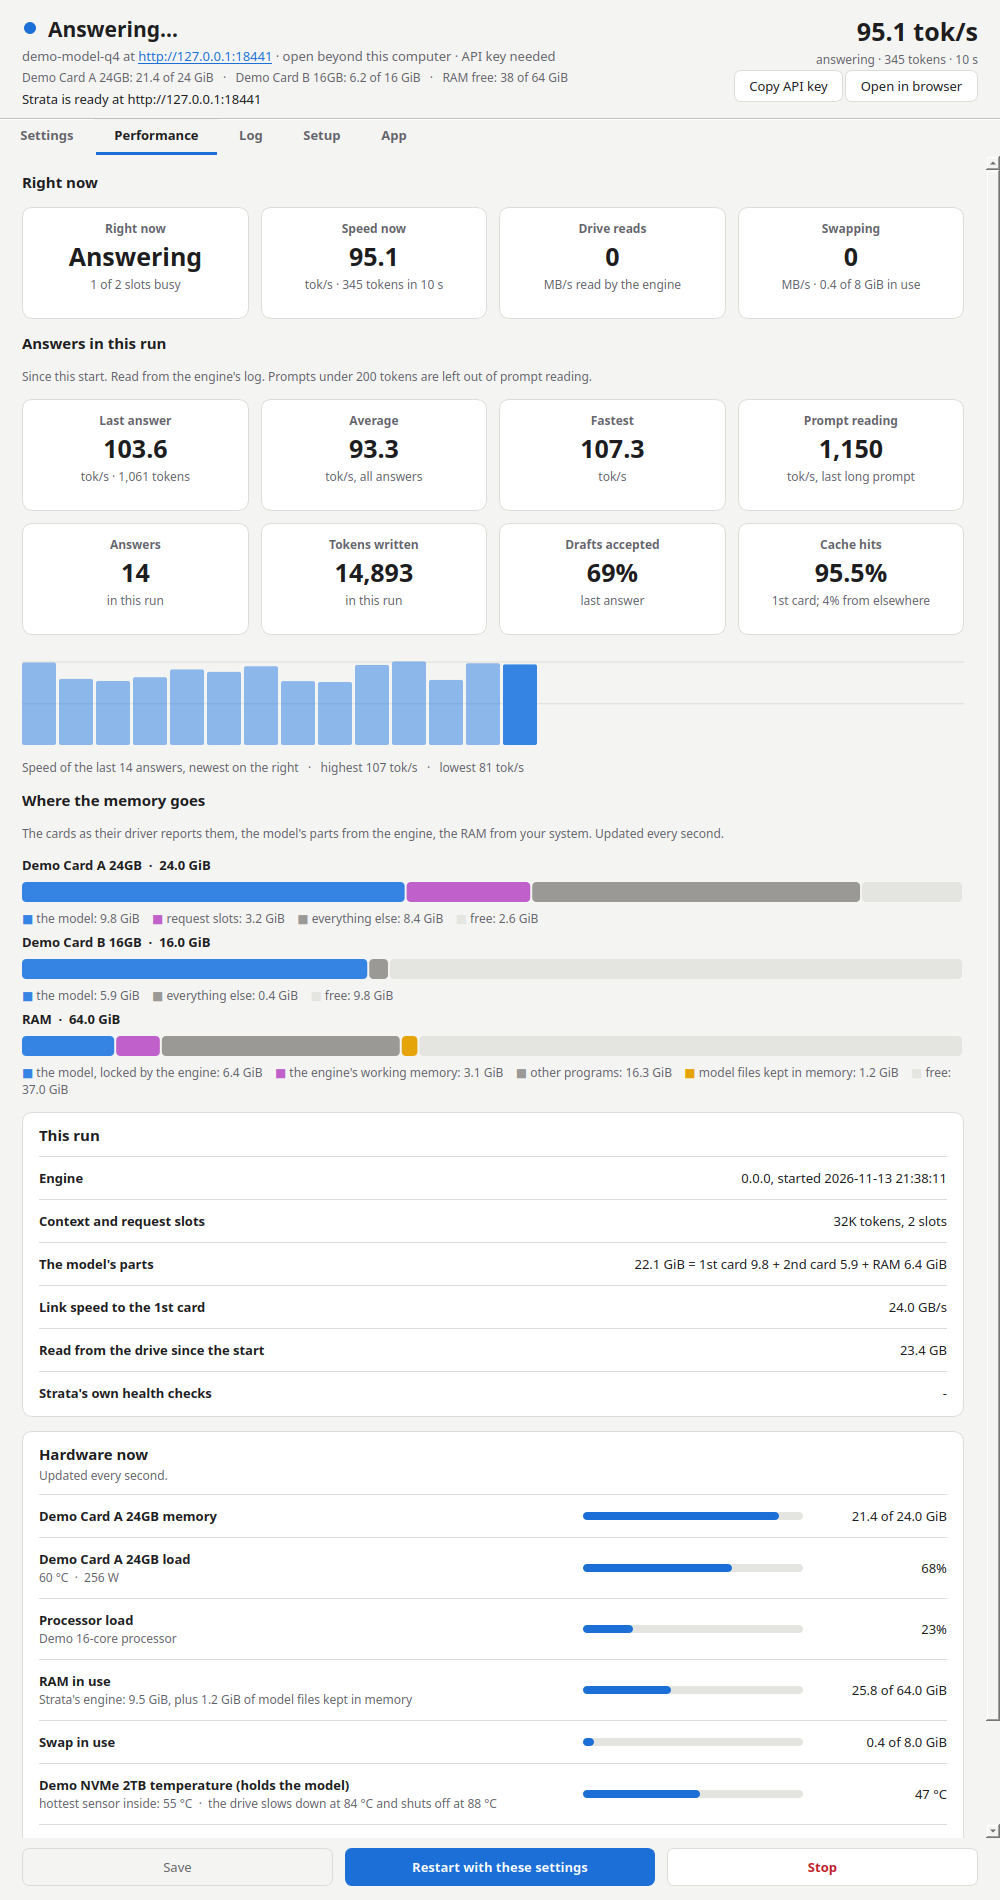
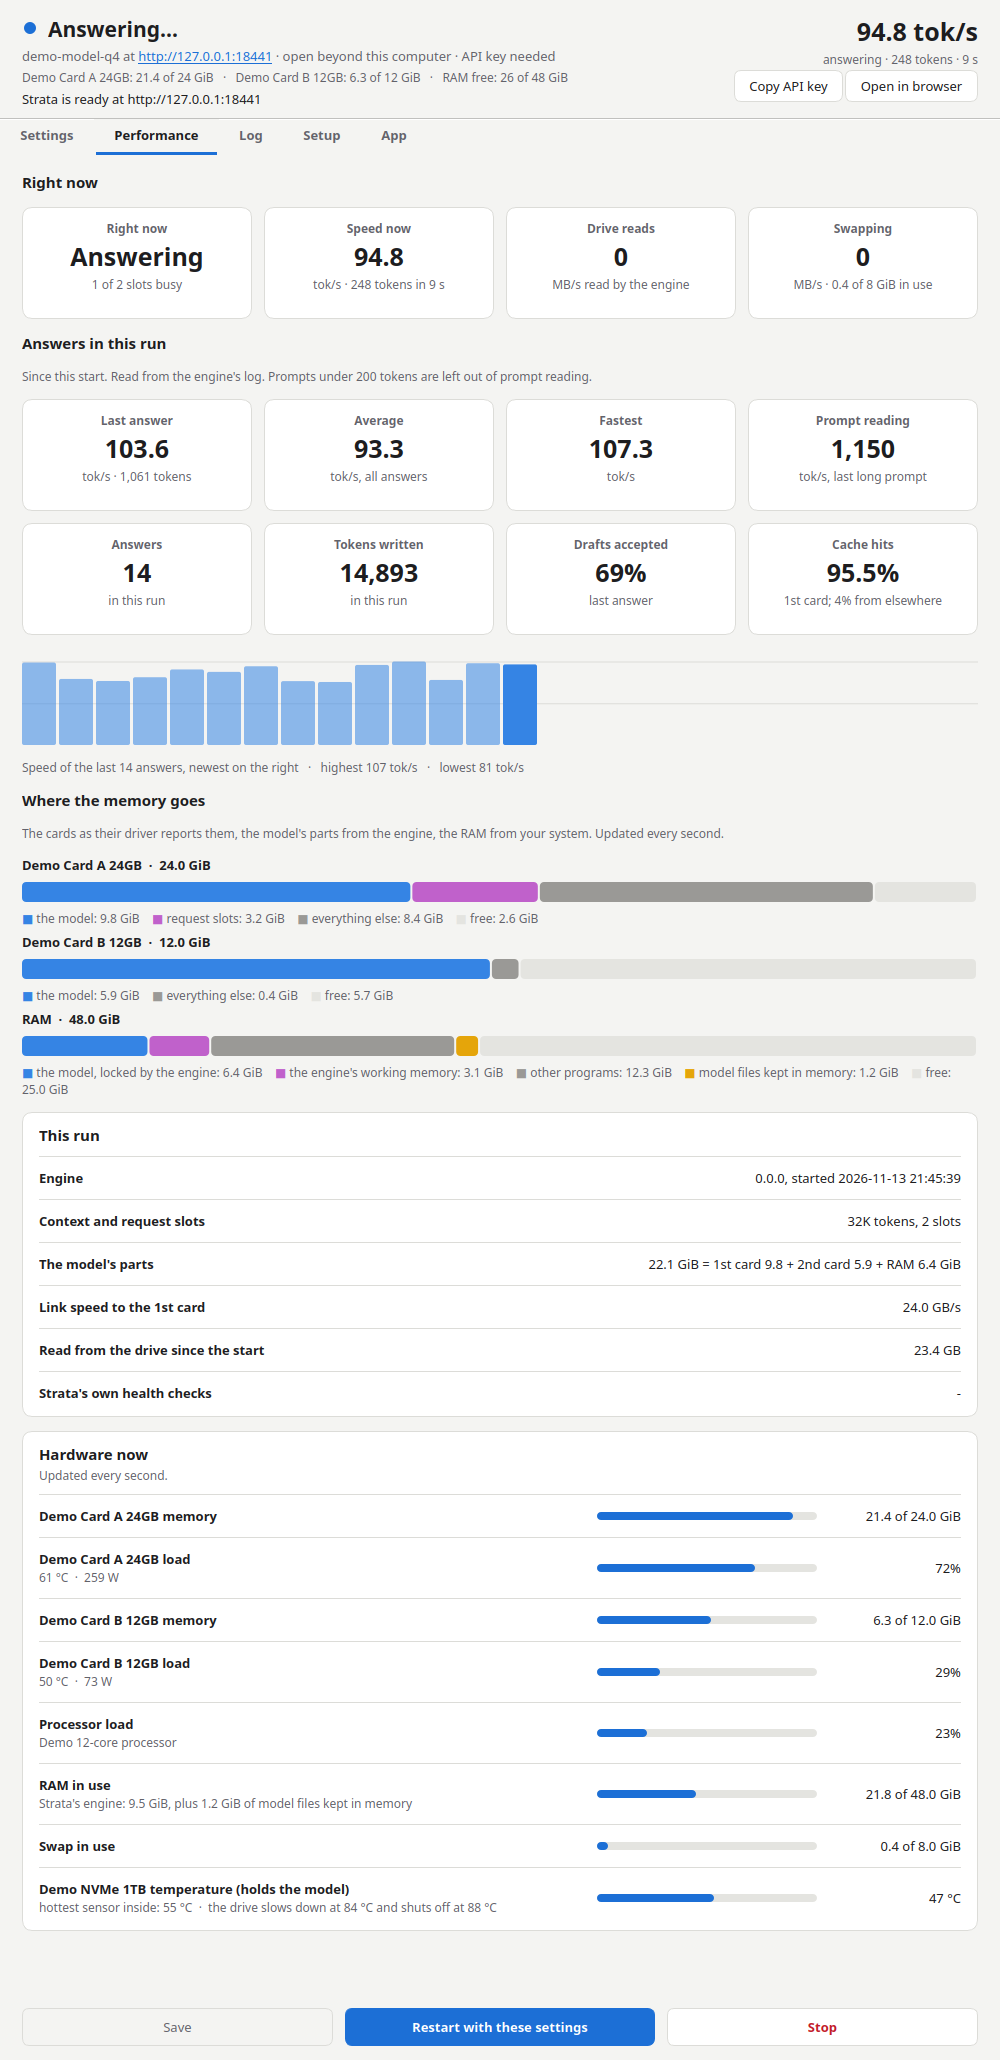
Fixes from hands-on testing on Windows: no false crash message after Stop, a first setup picks an installed model, hardware rows keep their order

diff --git a/src/strata_launcher/ui/window.py b/src/strata_launcher/ui/window.py
@@ -96,6 +96,7 @@ class MainWindow(QMainWindow):
         self.records: list[tuple[str, str]] = []
         self.running = False
         self.was_ready = False
+        self.stopped_at = 0.0
         self.live_logged = 0.0
         self.hot_said = 0.0
         self.shown_sub = None
@@ -340,6 +341,7 @@ class MainWindow(QMainWindow):
             self.run_rows[key] = value
         self.hw_card = Card("Hardware now", "Updated every second.")
         self.hw_rows: dict[str, Meter] = {}
+        self.hw_order: dict[str, tuple] = {}
 
         inner, _ = page(label("Right now", "heading"), now_box, label("Answers in this run", "heading"), self.perf_note, ans_box,
                         self.chart, self.chart_caption, label("Where the memory goes", "heading"), self.mem_note, mem_holder,
@@ -844,6 +846,9 @@ class MainWindow(QMainWindow):
         self.preset_combo.setEditText(preset)
         self.loading = False
         self.refresh_strata_note()
+        if info["models"] and not model and not preset and not self.files_edit.text() and self.kind_group.checkedId() == 0:
+            self.model_combo.setEditText(info["models"][0]["id"])      # a first setup: start from a model that is there
+            self.say(f"Strata has the model {info['models'][0]['id']} set up, so it is chosen. You can change it on the Setup tab.")
         if not info.get("version"):
             self.say("The chosen strata command did not answer like Strata. Check the Setup tab.", "warn")
 
@@ -1049,6 +1054,9 @@ class MainWindow(QMainWindow):
 
     def on_done(self, name: str, ok: bool, message: str):
         self.busy = None
+        if name == "Stopping…":
+            self.was_ready = False
+            self.stopped_at = time.time() + 1.5
         if message:
             self.say(message, "launcher" if ok else "error")
         self.show_status()
@@ -1193,7 +1201,9 @@ class MainWindow(QMainWindow):
         if self.was_ready and not now_running and not self.busy:
             self.was_ready = False
             self.why_gone()
-        if state["kind"] in ("idle", "busy") and not self.busy:
+        # "Ready" is only noted from a reading taken after the last Stop finished: the reading from the second
+        # before would still show the server and make a wanted stop look like a crash.
+        if state["kind"] in ("idle", "busy") and not self.busy and s.get("at", 0) > self.stopped_at:
             self.was_ready = True
         self.running = now_running
         url, c = self.url(), self.colours
@@ -1352,31 +1362,43 @@ class MainWindow(QMainWindow):
                               + (f" The engine also keeps {files:.1f} GiB of the model files in memory (yellow). The system drops them when memory is short, "
                                  "and then they are read from the drive again." if files > 2 else ""))
 
-    def meter(self, key: str, title: str) -> Meter:
+    def meter(self, key: str, title: str, order: tuple = (9,)) -> Meter:
+        """The hardware row with this key. A new row is put in its place: cards first, then processor, RAM, swap, drives."""
         if key not in self.hw_rows:
             self.hw_rows[key] = Meter(title)
-            self.hw_card.add(self.hw_rows[key])
+            self.hw_order[key] = order
+            box = self.hw_card.box
+            for i in reversed(range(box.count())):           # take the rows out (the heading stays) and put them back in order
+                item = box.itemAt(i)
+                w = item.widget()
+                if w is not None and (isinstance(w, Meter) or w.objectName() == "line"):
+                    box.takeAt(i)
+                    if not isinstance(w, Meter):
+                        w.deleteLater()
+            self.hw_card.rows = 0
+            for k in sorted(self.hw_rows, key=lambda k: self.hw_order[k]):
+                self.hw_card.add(self.hw_rows[k])
         return self.hw_rows[key]
 
     def refresh_hardware(self, s: dict, gpus: list):
         for g in gpus:
             if g.get("used") is not None:
-                self.meter(f"gpu{g['index']}m", f"{g['name']} memory").set(g["used"] / g["total"], f"{g['used'] / 1024:.1f} of {g['total'] / 1024:.1f} GiB")
+                self.meter(f"gpu{g['index']}m", f"{g['name']} memory", (0, g["index"], 0)).set(g["used"] / g["total"], f"{g['used'] / 1024:.1f} of {g['total'] / 1024:.1f} GiB")
             extra = [f"{g['temp']:.0f} °C" if g.get("temp") is not None else "", f"{g['power']:.0f} W" if g.get("power") is not None else ""]
             if g.get("util") is not None:
-                self.meter(f"gpu{g['index']}u", f"{g['name']} load").set(g["util"] / 100.0, f"{g['util']:.0f}%", "  ·  ".join(x for x in extra if x))
+                self.meter(f"gpu{g['index']}u", f"{g['name']} load", (0, g["index"], 1)).set(g["util"] / 100.0, f"{g['util']:.0f}%", "  ·  ".join(x for x in extra if x))
         if s.get("cpu_pct") is not None:
             name = ((s.get("metrics") or {}).get("hardware_static") or {}).get("cpu_name")
-            self.meter("cpu", "Processor load").set(s["cpu_pct"] / 100.0, f"{s['cpu_pct']:.0f}%", str(name) if name else None)
+            self.meter("cpu", "Processor load", (1,)).set(s["cpu_pct"] / 100.0, f"{s['cpu_pct']:.0f}%", str(name) if name else None)
         if s.get("ram_total"):
             used = s["ram_total"] - s["ram_avail"]
             eng = (s.get("eng_locked") or 0) + (s.get("eng_work") or 0)
             note = (f"Strata's engine: {eng:.1f} GiB" + (f", plus {s['eng_files']:.1f} GiB of model files kept in memory" if (s.get("eng_files") or 0) > 0.1 else "")
                     if s.get("engine_pid") else "Strata's engine is not running")
-            self.meter("ram", "RAM in use").set(used / s["ram_total"], f"{used:.1f} of {s['ram_total']:.1f} GiB", note)
+            self.meter("ram", "RAM in use", (2,)).set(used / s["ram_total"], f"{used:.1f} of {s['ram_total']:.1f} GiB", note)
         if s.get("swap_total"):
             used = s["swap_total"] - s["swap_free"]
-            self.meter("swap", "Swap in use").set(used / s["swap_total"], f"{used:.1f} of {s['swap_total']:.1f} GiB",
+            self.meter("swap", "Swap in use", (3,)).set(used / s["swap_total"], f"{used:.1f} of {s['swap_total']:.1f} GiB",
                                                   "Memory that programs had to give up to the drive." if used > 1 else "")
         for d in s.get("drives") or []:
             if d.get("temp") is None:
@@ -1384,7 +1406,7 @@ class MainWindow(QMainWindow):
             note = f"hottest sensor inside: {d['hottest']:.0f} °C"
             if d.get("warn") and d.get("crit"):
                 note += f"  ·  the drive slows down at {d['warn']:.0f} °C and shuts off at {d['crit']:.0f} °C"
-            self.meter(f"drv-{d['id']}", f"{d['model']} temperature" + (" (holds the model)" if d["holds_model"] else "")).set(
+            self.meter(f"drv-{d['id']}", f"{d['model']} temperature" + (" (holds the model)" if d["holds_model"] else ""), (4, d["id"])).set(
                 d["temp"] / (d.get("crit") or 90), f"{d['temp']:.0f} °C", note)
             hot = (d.get("warn") and d["temp"] >= d["warn"] - 8) or d["hottest"] >= 85
             if d["holds_model"] and hot and time.time() - self.hot_said > 120:

diff --git a/tests/test_window.py b/tests/test_window.py
@@ -115,6 +115,33 @@ def test_start_twice_runs_one_start_then_stop(window, fake_env):
     assert pump(lambda: window.busy is None and not window.sample.get("health"), 30)
     assert window.status_title.text() == "Stopped" and http_json(fake_env["url"] + "/health", timeout=0.5)[0] == 0
     assert any("Strata is stopped" in t for _k, t in window.records)
+    pump(lambda: False, 3)                                   # a wanted stop is never reported as a crash
+    assert not any("stopped by itself" in t for _k, t in window.records)
+
+
+def test_a_server_that_disappears_is_reported(window, fake_env):
+    window.btn_start.click()
+    assert pump(lambda: window.busy is None and bool(window.sample.get("health")), 30)
+    assert pump(lambda: window.was_ready, 5)
+    subprocess.run([sys.executable, str(ROOT / "tools" / "fake_strata" / "fake_strata.py"), "launch", "--stop"], capture_output=True)   # not through the window
+    assert pump(lambda: any(k == "error" and "stopped by itself" in t for k, t in window.records), 15)
+    assert window.status_title.text() == "Stopped"
+
+
+def test_first_setup_picks_a_model_that_is_there(fake_env):
+    from strata_launcher.ui import app as ui_app
+    write_config(fake_env)
+    path = fake_env["cfg_dir"] / "config.json"
+    cfg = json.loads(path.read_text(encoding="utf-8"))
+    cfg["source"]["model"] = ""
+    path.write_text(json.dumps(cfg), encoding="utf-8")
+    app, win = ui_app.create(["test"], single=False)
+    try:
+        assert pump(lambda: win.info.get("version") == "0.0.0")
+        assert win.model_combo.currentText() == "demo-q4" and win.dirty
+        assert command.source_problem(win.collect()["source"]) is None
+    finally:
+        win.close()
 
 
 def test_a_failed_start_says_so_and_frees_the_buttons(window, monkeypatch):
@@ -152,6 +179,18 @@ def test_start_at_sign_in_switch_writes_and_removes_the_entry(window, tmp_path, 
     assert window.row_minimized.isEnabled()
     window.sw_login.setChecked(False)
     assert not window.autostart.path.exists() and not window.row_minimized.isEnabled()
+
+
+def test_hardware_rows_keep_their_order_whatever_arrives_first(window):
+    from strata_launcher.ui.widgets import Meter
+    card_b = {"index": 1, "name": "Card B", "used": 100.0, "total": 1000.0, "util": 5.0}
+    card_a = {"index": 0, "name": "Card A", "used": 100.0, "total": 1000.0, "util": 5.0}
+    base = {"cpu_pct": 10.0, "ram_total": 32.0, "ram_avail": 20.0, "swap_total": 4.0, "swap_free": 4.0}
+    window.refresh_hardware(base, [card_b])                   # the second card and the PC's own figures arrive first
+    window.refresh_hardware(base, [card_a, card_b])
+    box = window.hw_card.box
+    titles = [box.itemAt(i).widget().title.text() for i in range(box.count()) if isinstance(box.itemAt(i).widget(), Meter)]
+    assert titles == ["Card A memory", "Card A load", "Card B memory", "Card B load", "Processor load", "RAM in use", "Swap in use"]
 
 
 def test_an_update_shows_on_the_app_tab(window):

diff --git a/tools/make_screenshots.py b/tools/make_screenshots.py
@@ -24,14 +24,14 @@ from pathlib import Path
 HERE = Path(__file__).resolve().parent
 sys.path.insert(0, str(HERE.parent / "src"))
 PORT = 18441
-HEIGHTS = {"settings": 1330, "performance": 1900, "log": 760, "setup": 1230, "app": 1080}
+HEIGHTS = {"settings": 1330, "performance": 2060, "log": 760, "setup": 1230, "app": 1080}
 
 
 class DemoProbe:
     """Made-up figures for the PC, so the pictures show nothing about the computer they were made on."""
 
     def system(self, now):
-        return {"ram_total": 64.0, "ram_avail": 38.2, "swap_total": 8.0, "swap_free": 7.6, "swap_in_mb_s": 0.0,
+        return {"ram_total": 48.0, "ram_avail": 26.2, "swap_total": 8.0, "swap_free": 7.6, "swap_in_mb_s": 0.0,
                 "swap_out_mb_s": 0.0, "cpu_pct": 23.0}
 
     def engine(self, now):
@@ -39,7 +39,7 @@ class DemoProbe:
                 "disk_total_gb": 23.4}
 
     def drives(self, model_dir):
-        return [{"id": "demo0", "model": "Demo NVMe 2TB", "temp": 47.0, "hottest": 55.0, "warn": 84.0, "crit": 88.0, "holds_model": True}]
+        return [{"id": "demo0", "model": "Demo NVMe 1TB", "temp": 47.0, "hottest": 55.0, "warn": 84.0, "crit": 88.0, "holds_model": True}]
 
 
 def main() -> int:

diff --git a/tools/fake_strata/stub_server.py b/tools/fake_strata/stub_server.py
@@ -147,9 +147,9 @@ class World:
                            "conversation_cache_slots": a.slots, "drafting": "mtp"},
                 "live": self.live(), "requests": requests, "requests_kept": len(requests), "totals": totals,
                 "hardware": {"gpu_util": 86 if busy else 4, "gpu_mem_used": 21.9 * 2**30, "gpu_mem_total": 24 * 2**30, "gpu_temp": 64 if busy else 41,
-                             "gpu_power": 248.0 if busy else 36.0, "cpu": 21.0 if busy else 3.0, "ram_used": 19 * 2**30, "ram_total": 64 * 2**30},
-                "hardware_static": {"gpu_name": "Demo Card A 24GB", "gpu_count": 2 if a.helper else 1, "cpu_name": "Demo 16-core processor",
-                                    "cores": 16, "threads": 32},
+                             "gpu_power": 248.0 if busy else 36.0, "cpu": 21.0 if busy else 3.0, "ram_used": 14 * 2**30, "ram_total": 48 * 2**30},
+                "hardware_static": {"gpu_name": "Demo Card A 24GB", "gpu_count": 2 if a.helper else 1, "cpu_name": "Demo 12-core processor",
+                                    "cores": 12, "threads": 24},
                 "time": time.time()}
 
 

diff --git a/tests/test_command.py b/tests/test_command.py
@@ -27,9 +27,9 @@ def test_every_setting_becomes_its_flags():
     o = opts()
     c = cfg_for(o, context="128k", parallel="4", vision="gpu", drafting="mtp", kv="q4_0", reserve=1024, speed="full", tune="quick",
                 gpu="0,1", gpu_roles="0=main,1=helper", access="lan", port=9000)
-    c["source"].update(model="iq3_s", family="qwen", data_dir="/models")
+    c["source"].update(model="iq3_xxs", family="qwen", data_dir="/models")
     flags = command.choice_flags(c, o)
-    assert flags[:6] == ["--family", "qwen", "--model", "iq3_s", "--data-dir", "/models"]
+    assert flags[:6] == ["--family", "qwen", "--model", "iq3_xxs", "--data-dir", "/models"]
     for pair in (["--context", "128k"], ["--parallel", "4"], ["--vision", "gpu"], ["--drafting", "mtp"], ["--kv", "q4_0"],
                  ["--set", "vram-reserve-mib=1024"], ["--speed", "full"], ["--tune", "quick"], ["--gpu", "0,1"],
                  ["--gpu-roles", "0=main,1=helper"], ["--access", "lan"], ["--port", "9000"]):

diff --git a/src/strata_launcher/ui/app.py b/src/strata_launcher/ui/app.py
@@ -7,6 +7,7 @@ import hashlib
 import os
 import sys
 import time
+from pathlib import Path
 
 from PySide6.QtCore import QTimer
 from PySide6.QtGui import QIcon
@@ -118,7 +119,7 @@ def first_run_question(win: MainWindow):
     box.addButton("Later", QMessageBox.RejectRole)
     box.exec()
     if box.clickedButton() is choose:
-        path = QFileDialog.getExistingDirectory(win, "Choose the folder where Strata is installed")
+        path = QFileDialog.getExistingDirectory(win, "Choose the folder where Strata is installed", str(Path.home()))
         if path:
             win.use_strata(strata.accept(path), path)
 

diff --git a/tools/fake_strata/nvidia-smi.py b/tools/fake_strata/nvidia-smi.py
@@ -8,7 +8,7 @@ import os
 import sys
 import time
 
-CARDS = [("Demo Card A 24GB", 24576, 21900, 250.0), ("Demo Card B 16GB", 16384, 6400, 70.0)]
+CARDS = [("Demo Card A 24GB", 24576, 21900, 250.0), ("Demo Card B 12GB", 12288, 6400, 70.0)]
 
 
 def rows(tick: int) -> list[str]:
